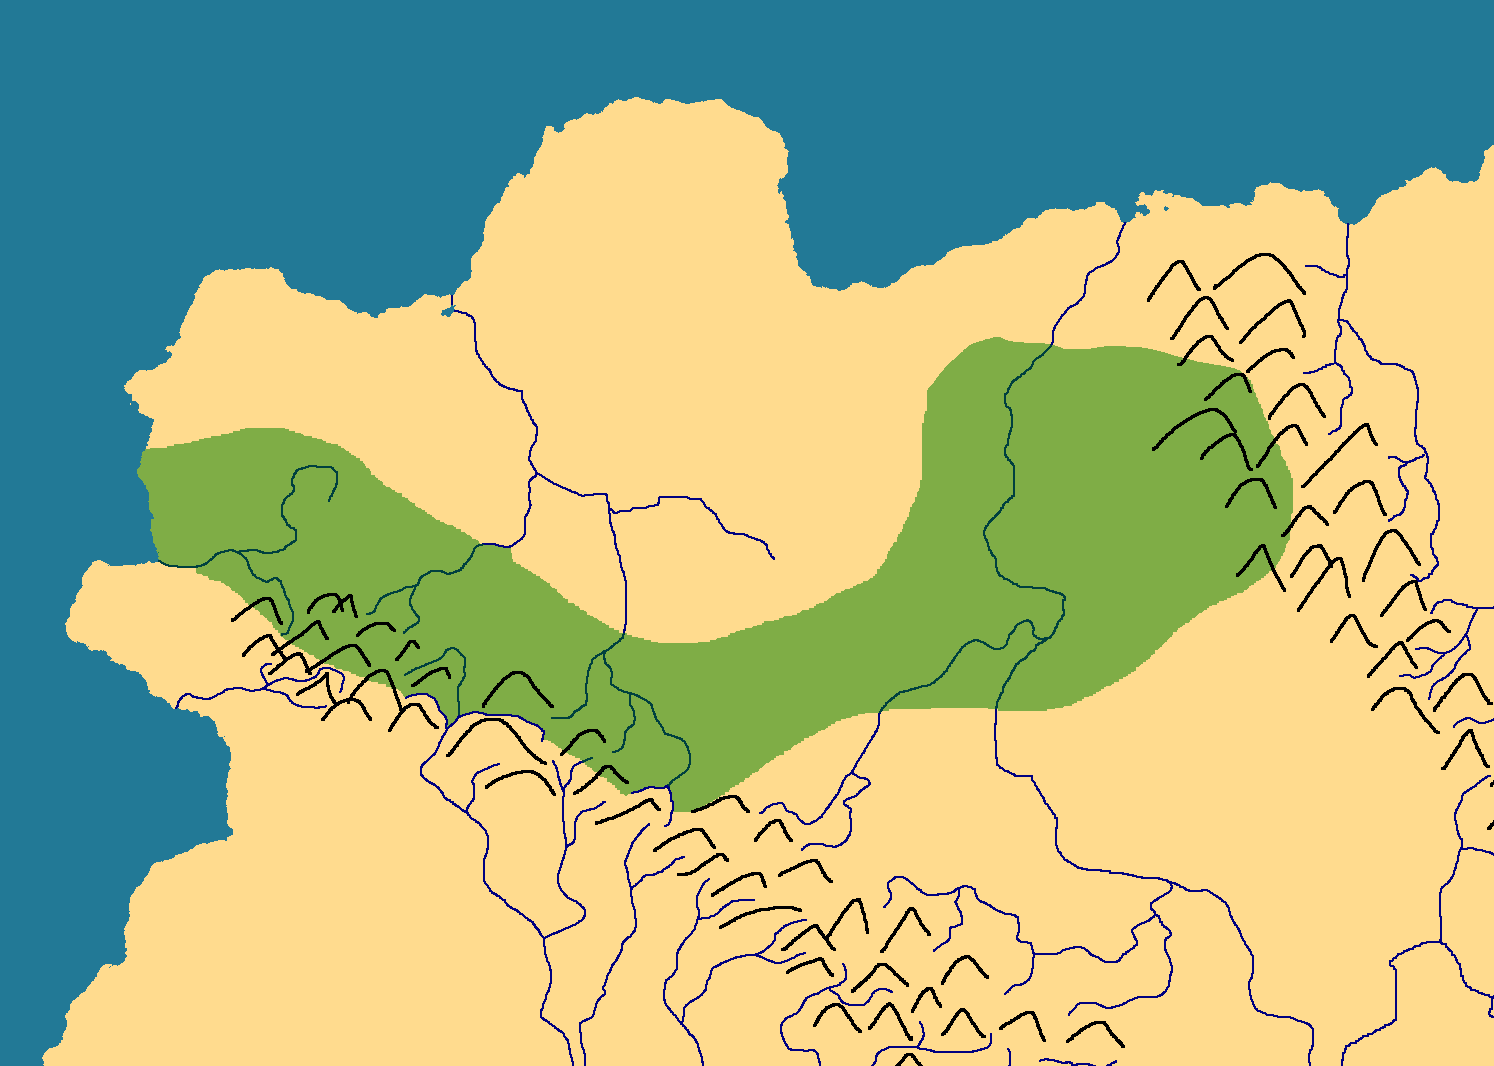
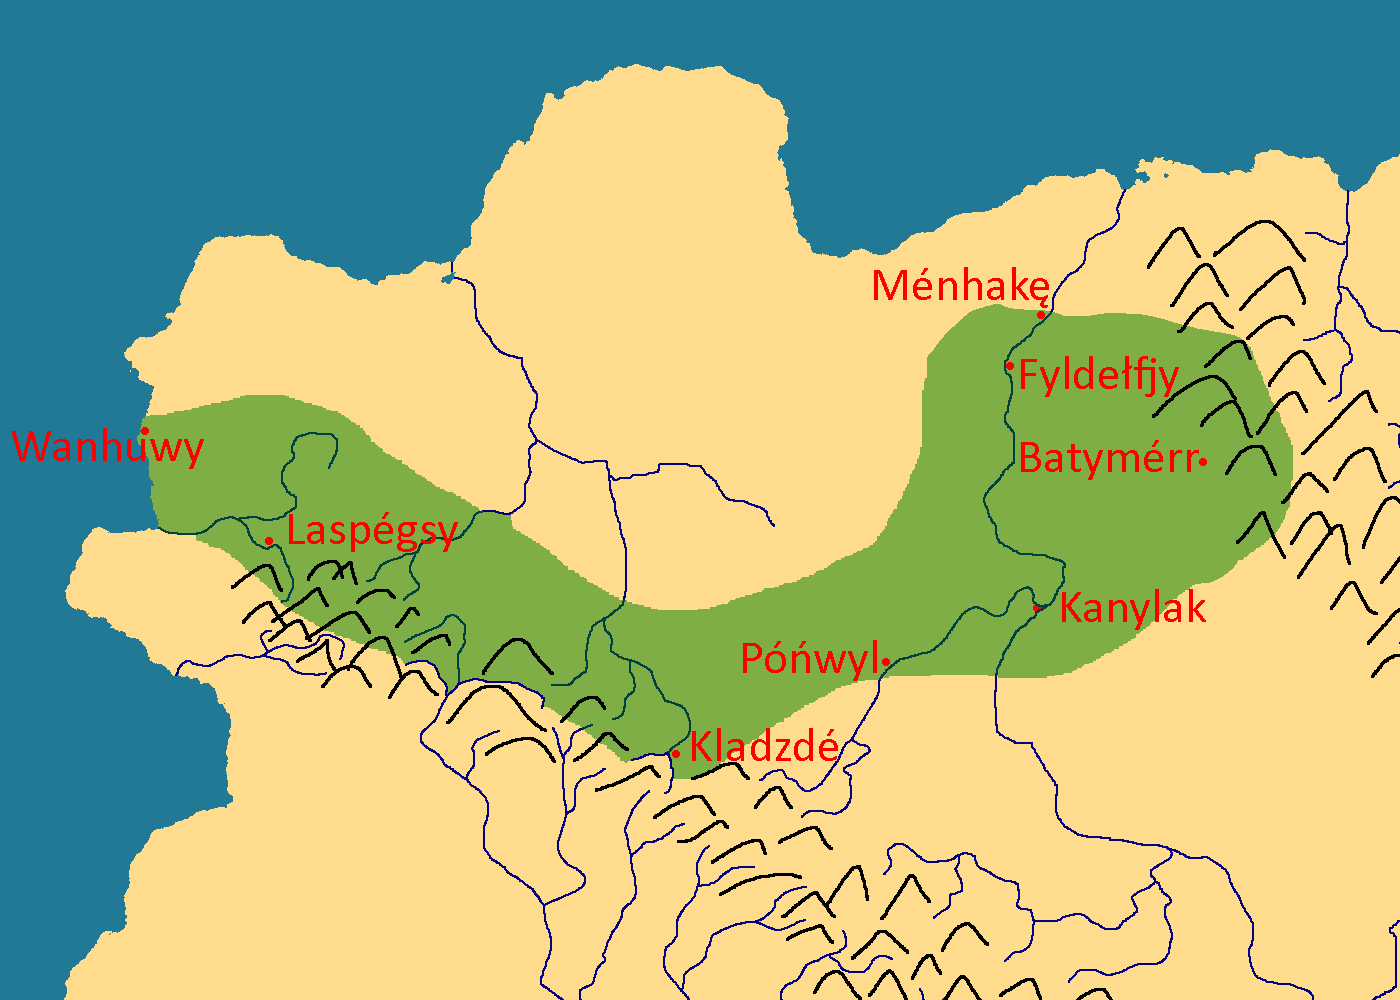
OwO

diff --git a/namei.html b/namei.html
@@ -873,9 +873,9 @@ The (D4) Die
 </table>
 
 <h2 id="poltas">Półtaś</h2>
-<img src="img/poltas_range.png" width="350" alt="">
+<img src="img/poltas_range.png" width="700" alt="">
 <!--1 pixel = 658m-->
-<div class="desc">A map of the Półtaś.</div>
+<div class="desc">A map of the major Półtaś settlements.</div>
 <p>
 	<!--Abstract (aka Spoilers)-->
 	The Półtaś are a large group of city-states in northern <a href="#pankair">Pankair</a> sharing similar culture.
